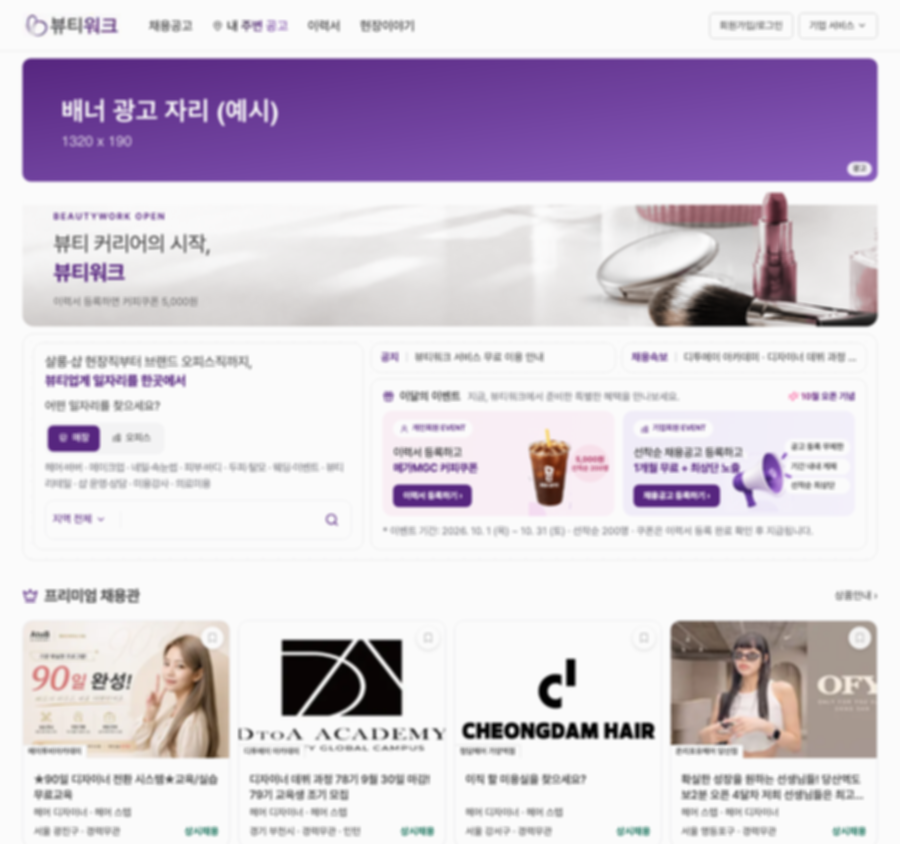
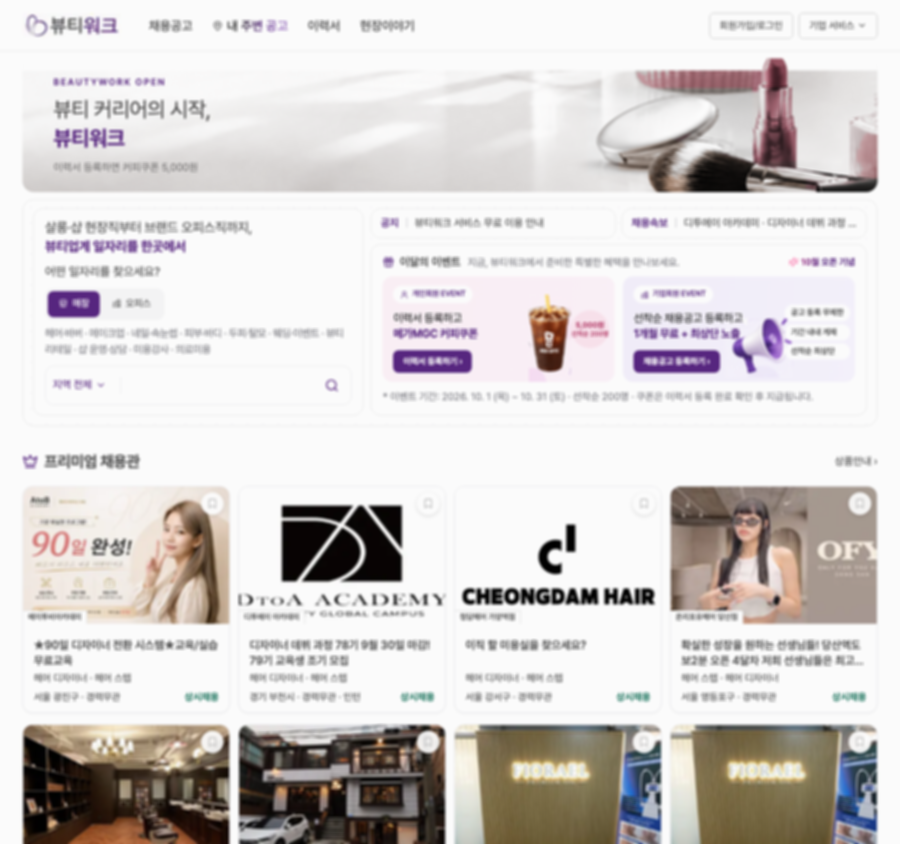
메인 광고는 새 자리가 아니라 그 자리다
메인 상단 배너 위에 광고를 하나 더 얹고 있었다. 팔리면 첫 화면에 배너가 둘이
되고, 어느 것이 이 사이트 이야기인지 흐려진다. 파는 것은 새 자리가 아니라
**지금 뷰티워크 배너가 선 그 자리**다 — 광고가 걸리면 그 자리를 광고가 쓰고,
안 걸렸으면 뷰티워크 배너가 선다(AdBanner 의 「대신」).

안내 화면의 빨간 상자도 좌우를 잰 값으로 두른다. 좌우로 꽉 채웠더니 공고
목록 캡처에서 상자가 왼쪽 사이드바까지 덮어, 배너가 사이드까지 먹는 것처럼
보였다. 실제 배너는 사이드바 오른쪽에서 시작한다.

메인 캡처도 예시 배너를 걸어 찍은 것에서, 지금 화면 그대로 찍은 것으로
바꿨다 — 가리키는 것이 지금 있는 그 배너이므로.

diff --git a/components/company/AdSurfaceDetail.tsx b/components/company/AdSurfaceDetail.tsx
@@ -17,11 +17,19 @@ import { 원 } from "@/lib/companyPlans";
  * 약속이 된다.
  */
 
-/** 캡처에서 배너가 선 자리(%). 캡처를 다시 찍으면 이 값도 같이 본다. */
+/**
+ * 캡처에서 배너가 선 자리(%). 캡처를 다시 찍으면 이 값도 같이 본다.
+ *
+ * 좌우도 잰다. 공고 목록의 배너는 왼쪽 사이드바 오른쪽에서 시작하는데, 상자를
+ * 좌우로 꽉 채웠더니 배너가 사이드까지 먹는 것처럼 보였다.
+ */
 const 자리표 = {
-  "main-banner":       { 그림: "ad-main-slot",        위: 6.9, 높이: 14.5, 이름: "메인 페이지" },
-  "jobs-banner":       { 그림: "ad-jobs-slot",        위: 6.1, 높이: 12.0, 이름: "채용공고 목록 (직군 미선택)" },
-  "jobs-group-banner": { 그림: "ad-jobs-group-slot",  위: 6.1, 높이: 12.0, 이름: "채용공고 목록 (직군 선택)" },
+  "main-banner":       { 그림: "ad-main-slot",       위: 6.3,  높이: 16.3, 왼: 2.5, 오: 2.6,
+                         이름: "메인 페이지 상단 배너" },
+  "jobs-banner":       { 그림: "ad-jobs-slot",       위: 6.1,  높이: 12.0, 왼: 19.1, 오: 2.6,
+                         이름: "채용공고 목록 (직군 미선택)" },
+  "jobs-group-banner": { 그림: "ad-jobs-group-slot", 위: 6.1,  높이: 12.0, 왼: 19.1, 오: 2.6,
+                         이름: "채용공고 목록 (직군 선택)" },
 } as const;
 
 function 상품칸({ 것, 안쪽 }: { 것: 광고상품; 안쪽: boolean }) {
@@ -72,11 +80,16 @@ function 상품칸({ 것, 안쪽 }: { 것: 광고상품; 안쪽: boolean }) {
         <>
           <div className="pi-list" style={{ marginTop: 22 }}>
             <img src={`/images/plans/${자리.그림}.png`} alt={`${자리.이름} 배너 자리`} />
-            <div className="pi-zone on" style={{ top: `${자리.위}%`, height: `${자리.높이}%` }}>
+            <div className="pi-zone on"
+                 style={{ top: `${자리.위}%`, height: `${자리.높이}%`,
+                          left: `${자리.왼}%`, right: `${자리.오}%` }}>
               <span className="pi-bub">{것.name} 자리</span>
             </div>
           </div>
-          <p className="pi-cap">▲ {자리.이름} — 빨간 테두리가 배너가 서는 자리입니다.</p>
+          <p className="pi-cap">
+            ▲ {자리.이름} — 빨간 테두리가 배너가 서는 자리입니다.
+            {것.면 === "MAIN" && " 지금 뷰티워크 배너가 선 그 자리이며, 광고가 걸리면 그 자리를 광고가 씁니다."}
+          </p>
         </>
       )}
     </section>

diff --git a/app/page.tsx b/app/page.tsx
@@ -164,20 +164,20 @@ function Hero() {
     <section className="mainTop">
       <div className="container">
 
-        {/* 0. 파는 배너 자리. 걸린 것이 없으면 자리 자체가 안 생기므로, 안 팔린
-            동안에는 지금 화면 그대로다. */}
-        <AdBanner slot="main" />
-
-        {/* 1. 사진 배너 — 1320x190. 문구는 공지에서 받아 관리자가 고칠 수 있다. */}
-        <Link href={이벤트 ? `/event?open=${이벤트.id}` : "/company"} className="mt-hero">
-          <span className="mt-hero-photo" />
-          <span className="mt-hero-in">
-            <span className="mt-eyebrow">BEAUTYWORK OPEN</span>
-            <span className="mt-hero-h">뷰티 커리어의 시작,<br /><b>뷰티워크</b></span>
-            <span className="mt-hero-sub">{이벤트?.short_title || 이벤트?.title
-              || `${오픈일글()} 오픈 · 채용공고와 이력서 등록을 무료로 이용하세요.`}</span>
-          </span>
-        </Link>
+        {/* 1. 상단 배너 — 파는 자리다. 광고가 걸리면 그 자리를 광고가 쓰고,
+            안 걸렸으면 뷰티워크 배너가 선다. 광고를 위에 하나 더 얹지 않는다 —
+            첫 화면에 배너가 둘이면 어느 것이 이 사이트 이야기인지 흐려진다. */}
+        <AdBanner slot="main" 대신={
+          <Link href={이벤트 ? `/event?open=${이벤트.id}` : "/company"} className="mt-hero">
+            <span className="mt-hero-photo" />
+            <span className="mt-hero-in">
+              <span className="mt-eyebrow">BEAUTYWORK OPEN</span>
+              <span className="mt-hero-h">뷰티 커리어의 시작,<br /><b>뷰티워크</b></span>
+              <span className="mt-hero-sub">{이벤트?.short_title || 이벤트?.title
+                || `${오픈일글()} 오픈 · 채용공고와 이력서 등록을 무료로 이용하세요.`}</span>
+            </span>
+          </Link>
+        } />
 
         {/* 2. 일자리 찾기 블록 */}
         <div className="mt-jobs">

diff --git a/components/ads/AdBanner.tsx b/components/ads/AdBanner.tsx
@@ -14,10 +14,17 @@ import Link from "next/link";
  */
 type 배너 = { image: string; href?: string; alt?: string };
 
-export default function AdBanner({ slot, group, className }: {
+export default function AdBanner({ slot, group, className, 대신 = null }: {
   slot: "main" | "jobs";
   group?: string;
   className?: string;
+  /**
+   * 안 팔렸을 때 그 자리에 대신 서는 것.
+   *
+   * 메인 상단은 원래 뷰티워크 배너가 서 있던 자리다. 광고를 그 **위에** 하나 더
+   * 얹으면 첫 화면에 배너가 둘이 된다 — 파는 것은 새 자리가 아니라 **그 자리**다.
+   */
+  대신?: React.ReactNode;
 }) {
   const [것, set것] = useState<배너 | null>(null);
 
@@ -29,7 +36,7 @@ export default function AdBanner({ slot, group, className }: {
       .catch(() => set것(null));
   }, [slot, group]);
 
-  if (!것) return null;
+  if (!것) return <>{대신}</>;
 
   const 그림 = <img className="ad-banner-img" src={것.image} alt={것.alt || "광고"} loading="lazy" />;
   return (

diff --git a/app/globals.css b/app/globals.css
@@ -16036,6 +16036,8 @@ select option { background-color: #fff; color: var(--color-text-strong); }
 
 .pi-list { position: relative; border: 1px solid var(--card-line); overflow: hidden; }
 .pi-list img { display: block; width: 100%; }
+/* 왼·오른쪽도 값을 받는다. 전에는 좌우로 꽉 채웠더니 공고 목록 캡처에서
+   빨간 상자가 왼쪽 사이드바까지 덮어, 배너가 사이드까지 먹는 것처럼 보였다. */
 .pi-zone { position: absolute; left: 0; right: 0; }
 .pi-zl { position: absolute; top: 5px; left: 5px; font-style: normal;
   background: rgba(255, 255, 255, .94); border: 1px solid var(--card-line); color: #8a8a90;
